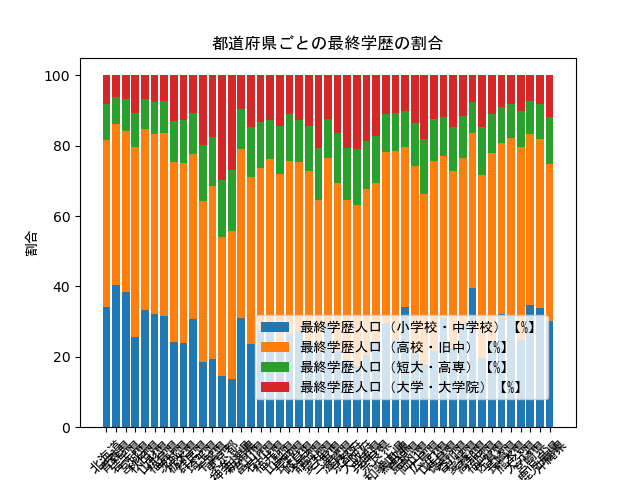
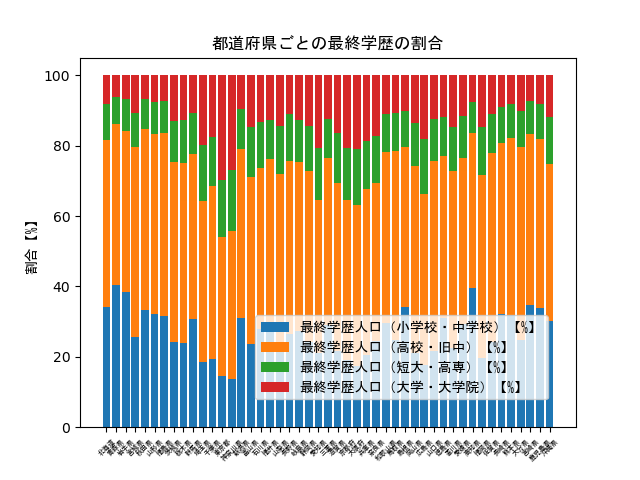
complete for now

Changed region(s): [[0.125, 0.9062, 0.9062, 1.0], [0.0312, 0.4688, 0.0625, 0.5938]]

diff --git a/final_education_area.py b/final_education_area.py
@@ -52,7 +52,7 @@ label_x = df_final_education_area['都道府県No.']
 sum = height1 + height2 + height3 + height4
 
 ax.set_xticks(x) # x軸に都道府県No.をセット
-ax.set_xticklabels(df_final_education_area['都道府県'] ,fontname="MS Gothic", rotation=45) # 都道府県No.を都道府県に置換
+ax.set_xticklabels(df_final_education_area['都道府県'] ,fontname="MS Gothic", fontsize=5, rotation=45) # 都道府県No.を都道府県に置換
 
 # 100%の積み上げのための計算
 ax.bar(x, (height1 / sum) * 100)
